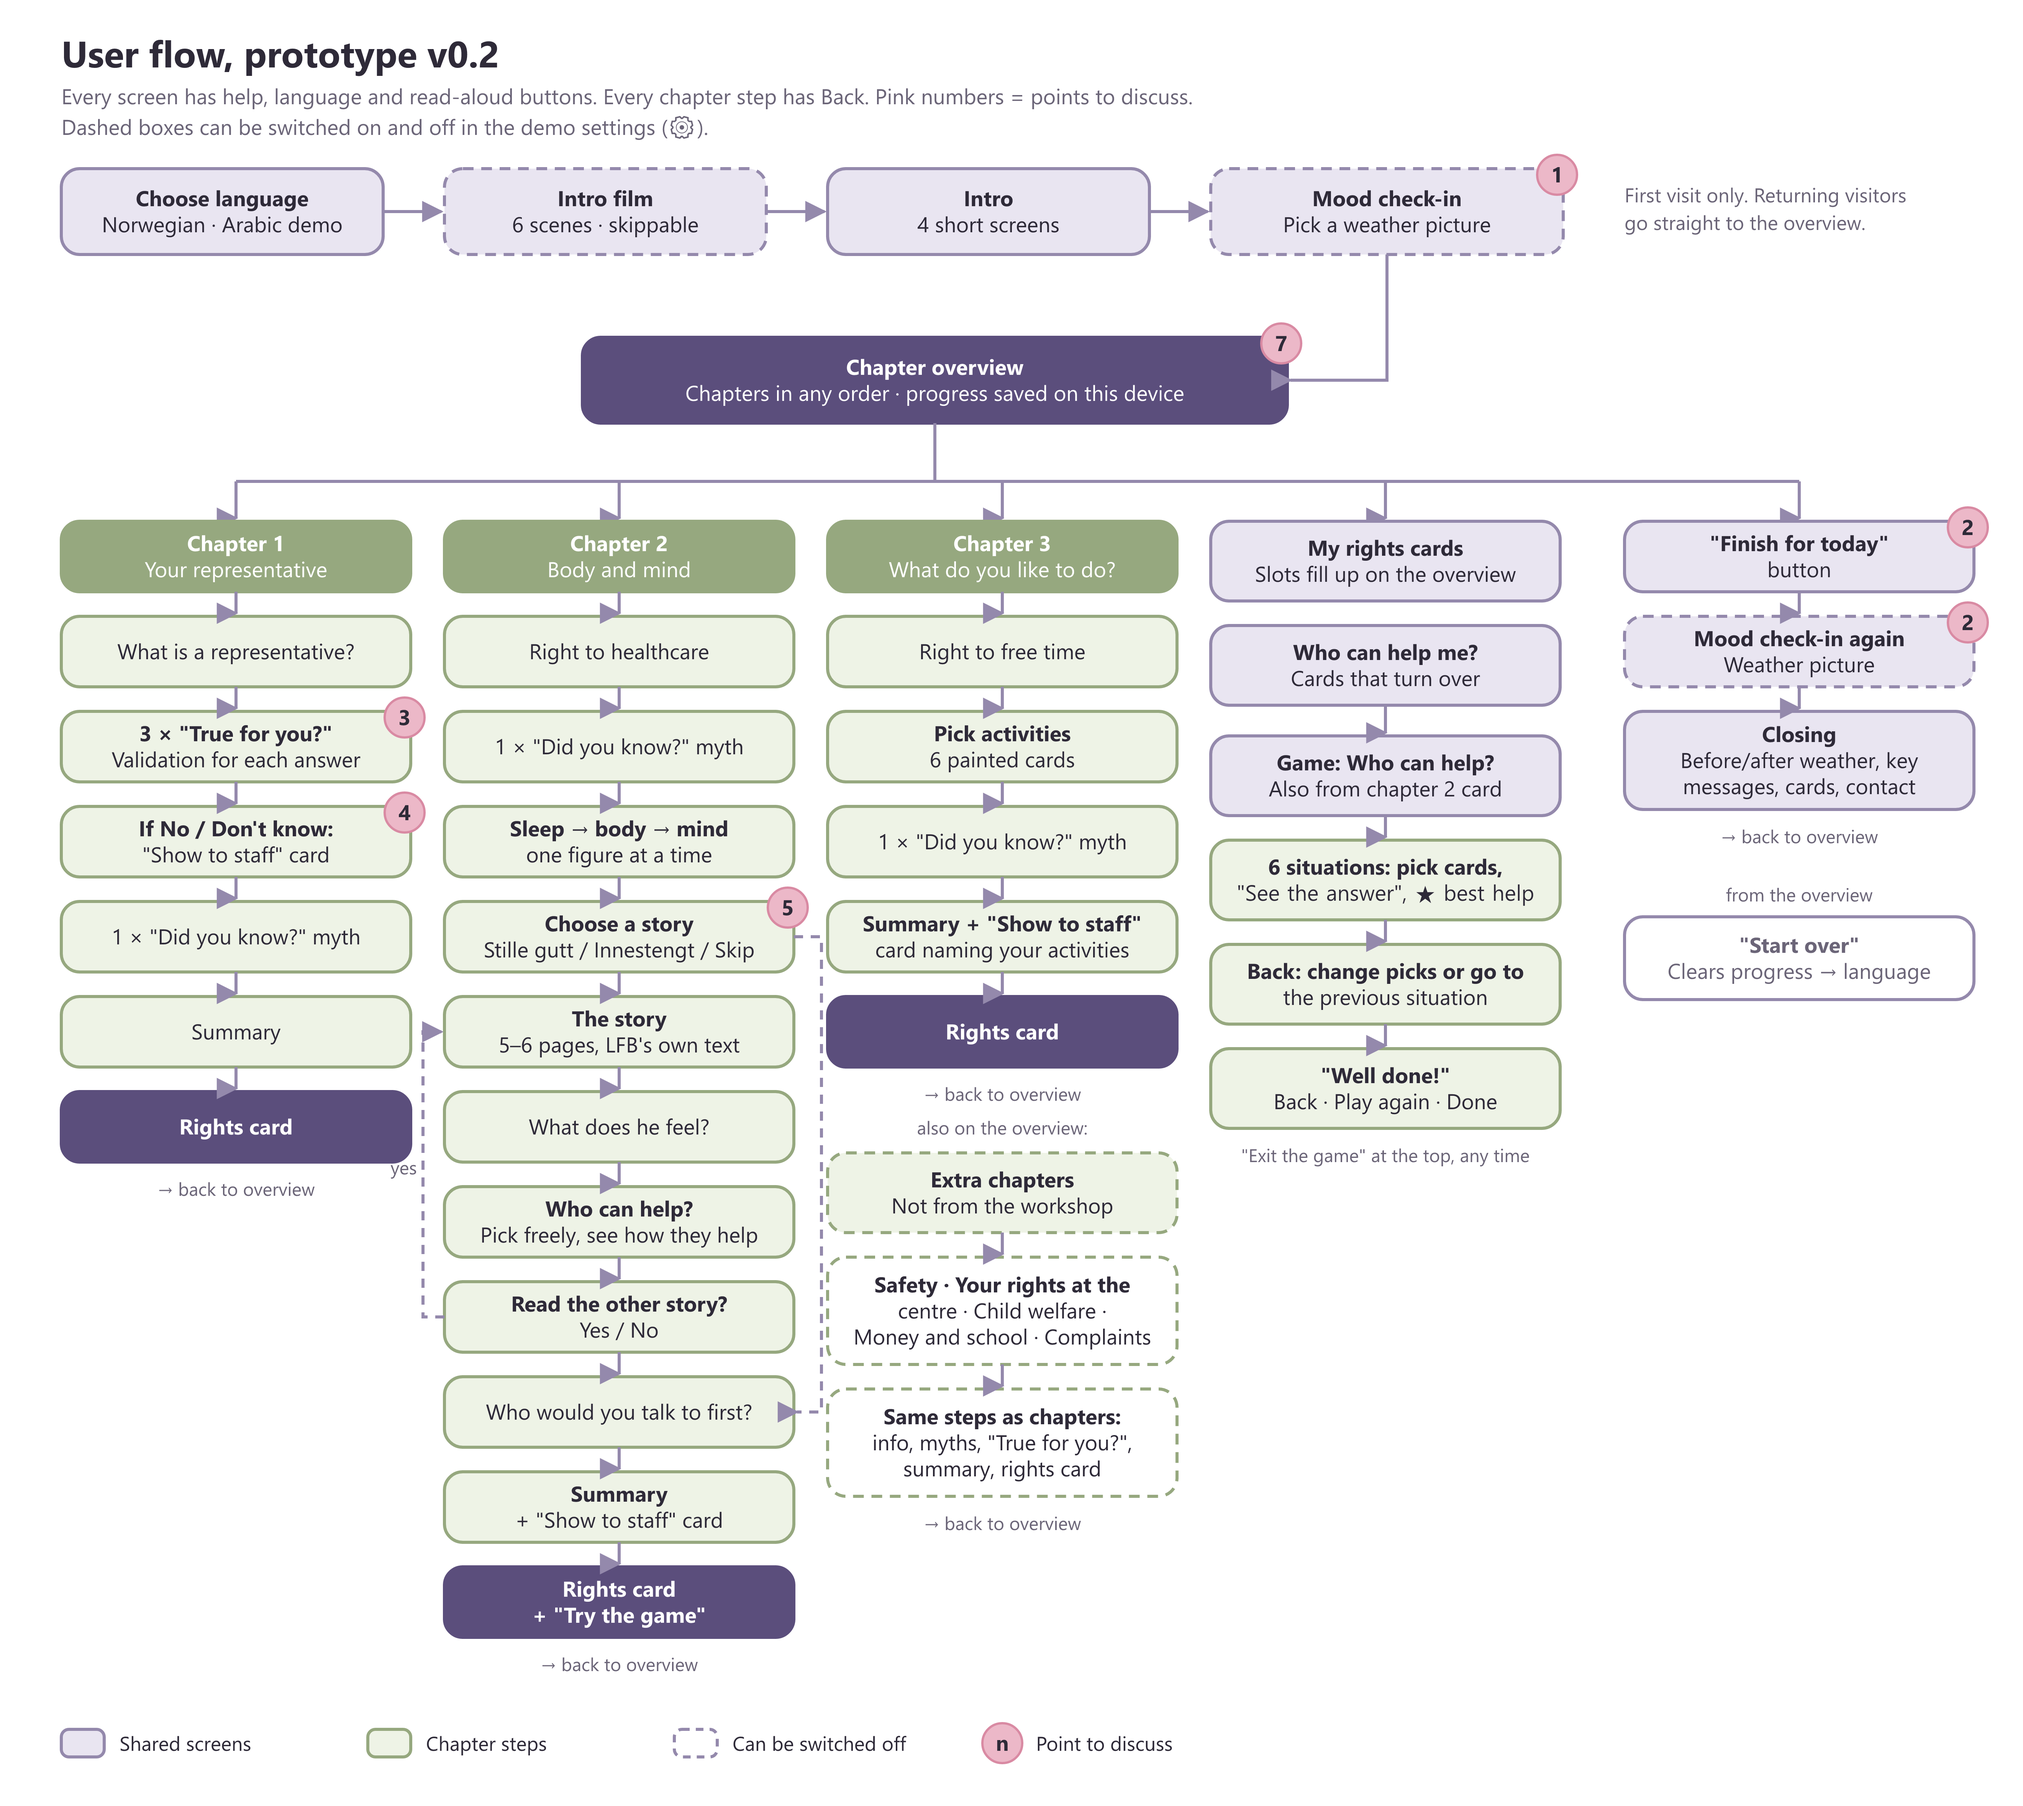
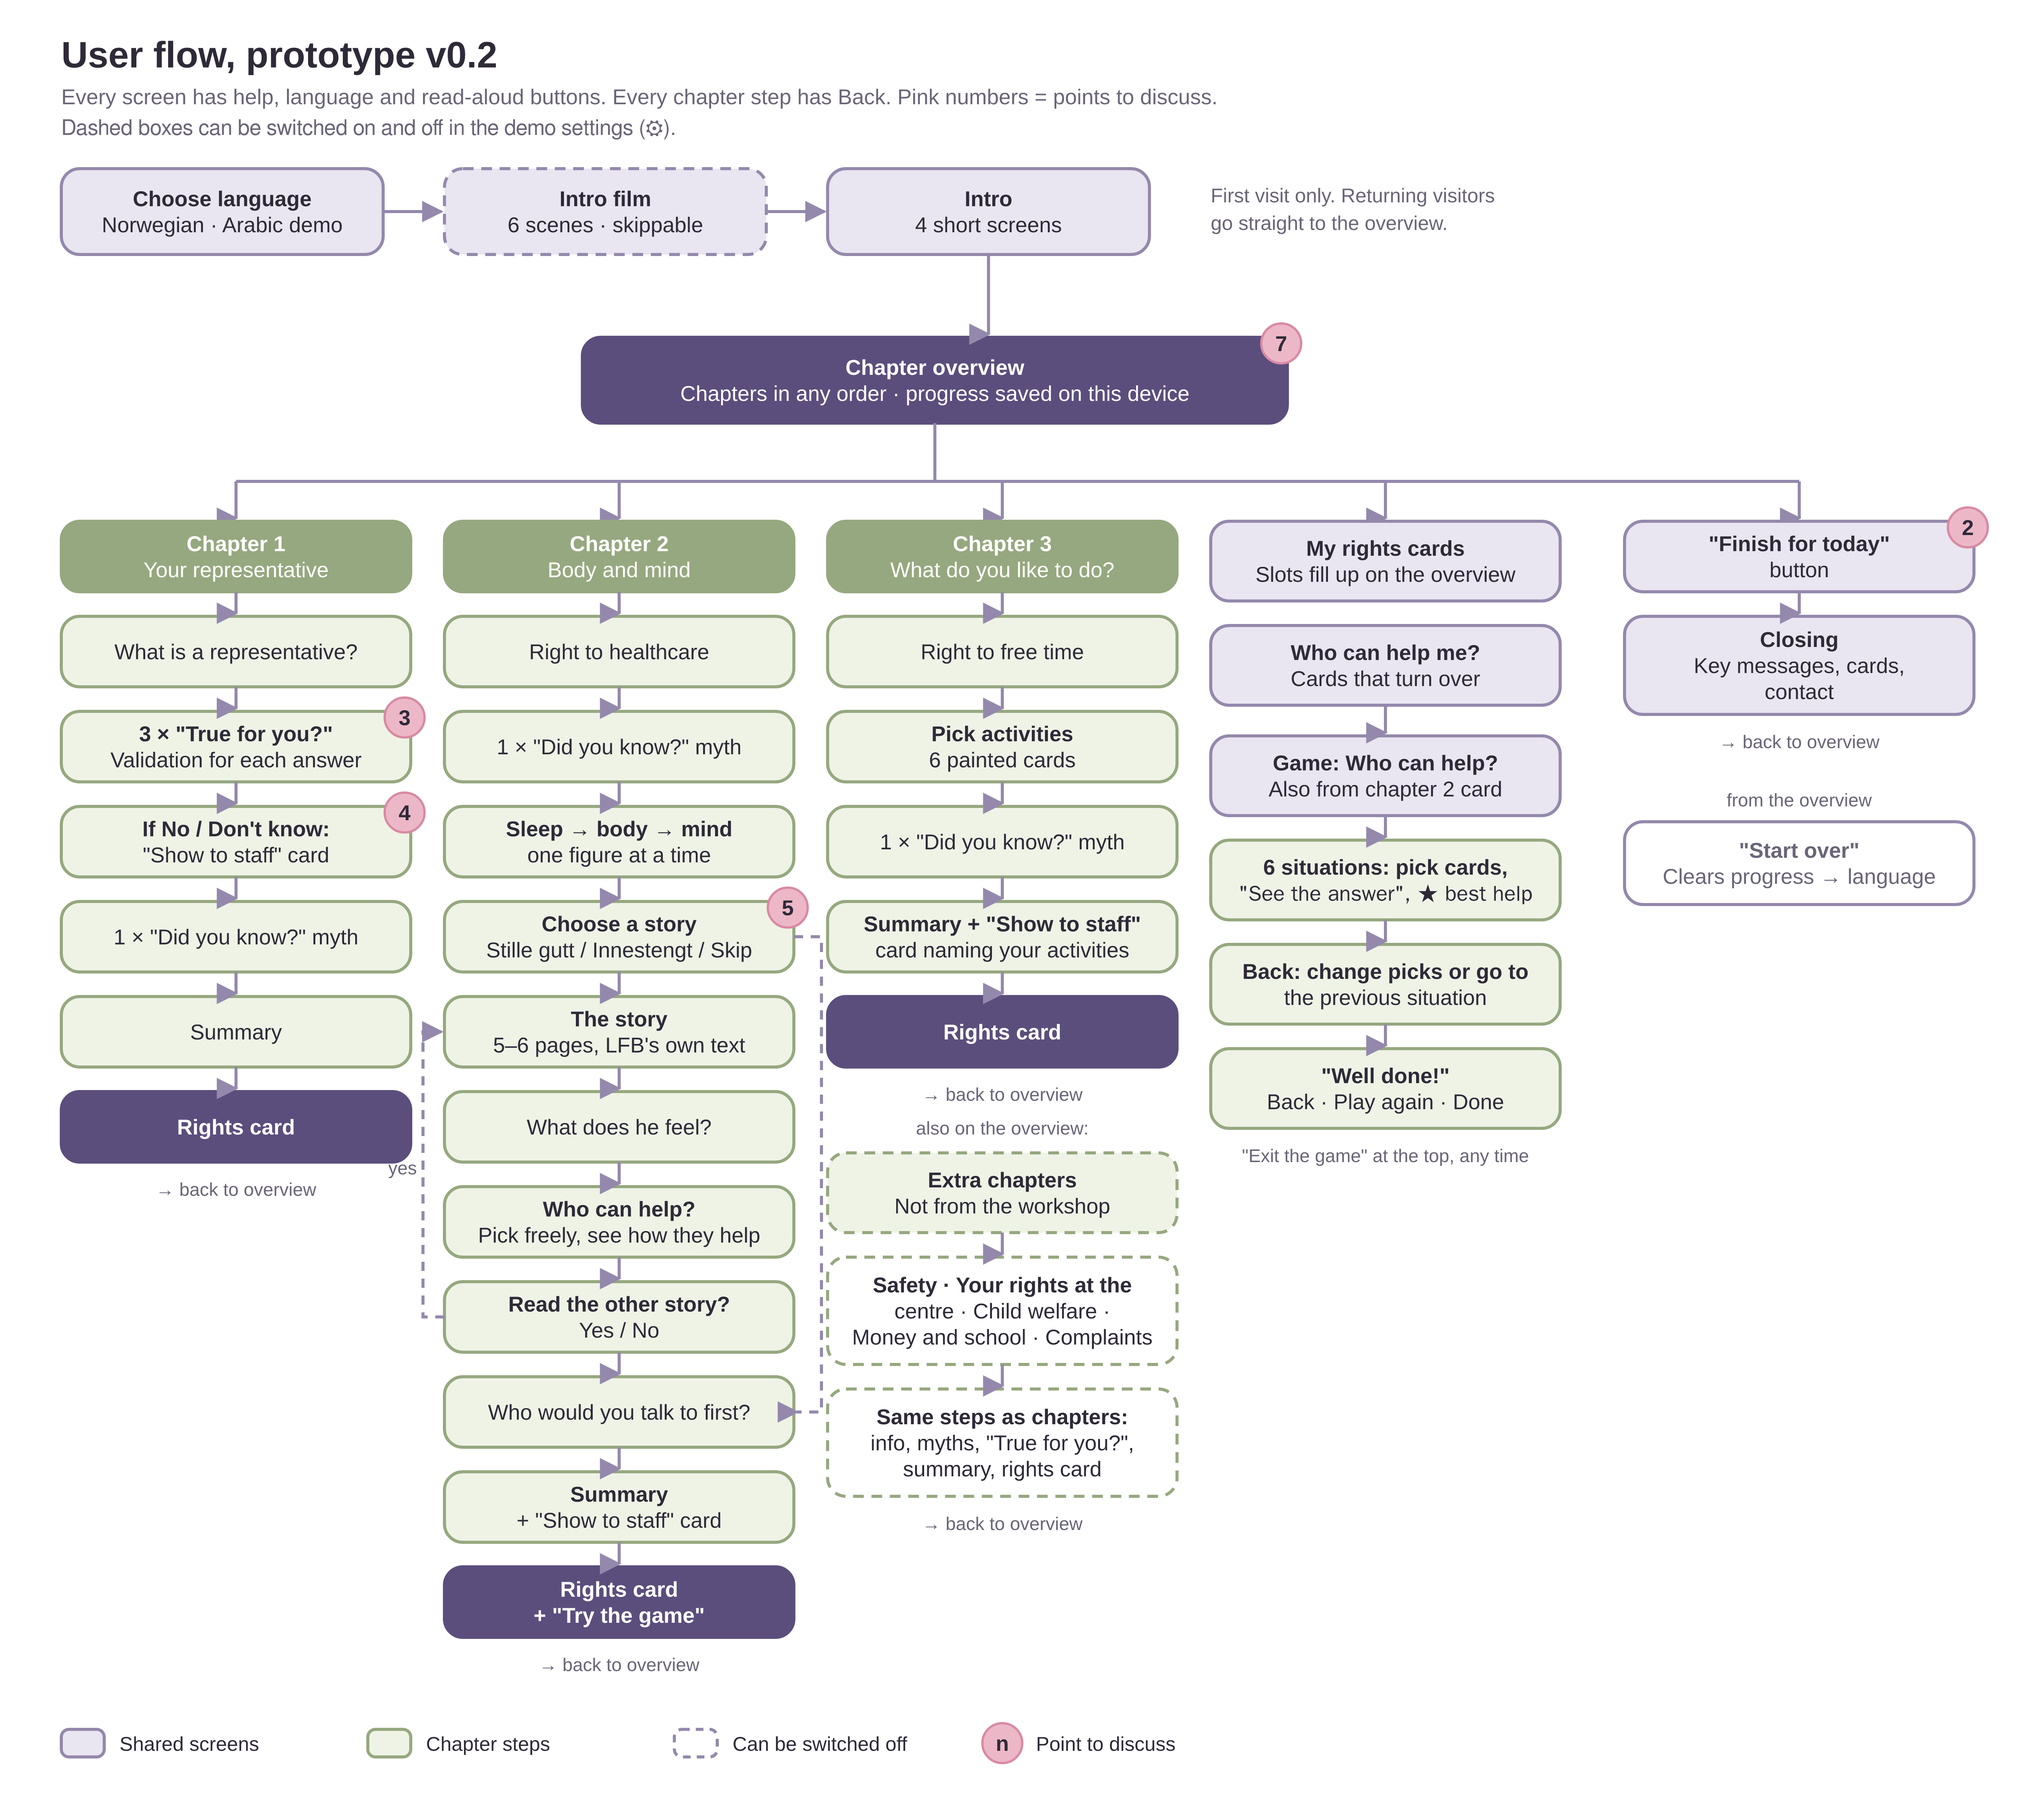
Remove the weather mood check; new topic order (v0.2.8)
The check-in and check-out screens, their feature switches, texts and the
before/after weather on the closing screen are gone. Topics now run from
the representative and the centre through everyday life and health to
safety, with complaints last.

Claude-Session: https://claude.ai/code/session_01N1UCGomGtG8efr6c5tPrno

diff --git a/src/App.jsx b/src/App.jsx
@@ -8,7 +8,6 @@ import HelpButton from './components/Help.jsx'
 import LanguageScreen from './screens/LanguageScreen.jsx'
 import Intro from './screens/Intro.jsx'
 import IntroFilm from './screens/IntroFilm.jsx'
-import CheckIn from './screens/CheckIn.jsx'
 import Hub from './screens/Hub.jsx'
 import Chapter from './screens/Chapter.jsx'
 import Cards from './screens/Cards.jsx'
@@ -97,18 +96,6 @@ function Screens({ demo }) {
         <Intro
           onDone={() => {
             update({ introDone: true })
-            go(on('checkin') ? 'checkin' : 'hub')
-          }}
-        />
-      )
-      break
-    case 'checkin':
-      content = (
-        <CheckIn
-          kind="checkin"
-          initial={progress.checkin}
-          onDone={(checkin) => {
-            update({ checkin })
             go('hub')
           }}
         />
@@ -129,18 +116,6 @@ function Screens({ demo }) {
     case 'game':
       content = <HelperGame onBack={() => go(gameFrom)} />
       break
-    case 'checkout':
-      content = (
-        <CheckIn
-          kind="checkout"
-          initial={null}
-          onDone={(checkout) => {
-            update({ checkout })
-            go('closing')
-          }}
-        />
-      )
-      break
     case 'closing':
       content = <Closing progress={progress} onBack={() => go('hub')} />
       break
@@ -154,7 +129,7 @@ function Screens({ demo }) {
           }}
           onCards={() => go('cards')}
           onHelpers={() => go('helpers')}
-          onFinish={() => go(on('checkout') ? 'checkout' : 'closing')}
+          onFinish={() => go('closing')}
           onRestart={() => {
             reset()
             go('lang')

diff --git a/src/content.js b/src/content.js
@@ -5,13 +5,6 @@ import { EXTRA_CARDS, EXTRA_CHAPTERS } from './content/extra.js'
 
 export const img = (file) => `${import.meta.env.BASE_URL}img/${file}`
 
-export const WEATHER = [
-  { id: 'clear', img: img('weather-clear.jpg'), label: 'weather.clear' },
-  { id: 'sunset', img: img('weather-sunset.jpg'), label: 'weather.sunset' },
-  { id: 'breaking', img: img('weather-breaking.jpg'), label: 'weather.breaking' },
-  { id: 'storm', img: img('weather-storm.jpg'), label: 'weather.storm' },
-]
-
 export const EMOTIONS = [
   { id: 'glad', img: img('emotion-glad.jpg') },
   { id: 'hopeful', img: img('emotion-hopeful.jpg') },
@@ -166,8 +159,13 @@ export const CHAPTERS = [
 
 // Chapters shown with the current feature switches: the workshop chapters plus
 // any extra chapters that are switched on.
+// Order of the topics in the overview: from who helps you and where you live,
+// through everyday life and health, to safety, and complaints last.
+const ORDER = ['ch1', 'x.centre', 'x.money', 'ch3', 'ch2', 'x.safety', 'x.cws', 'x.complain']
+const rank = (ch) => (ORDER.includes(ch.id) ? ORDER.indexOf(ch.id) : ORDER.length)
+
 export function chaptersFor(on) {
-  return [...CHAPTERS, ...EXTRA_CHAPTERS.filter((ch) => on(ch.id))]
+  return [...CHAPTERS, ...EXTRA_CHAPTERS.filter((ch) => on(ch.id))].sort((a, b) => rank(a) - rank(b))
 }
 
 export function findChapter(id) {

diff --git a/src/styles.css b/src/styles.css
@@ -174,19 +174,6 @@ button:focus-visible, a:focus-visible { outline: 3px solid var(--purple); outlin
 .dots .active { background: var(--purple); width: 22px; border-radius: 4px; }
 
 /* Weather */
-.weather-grid { display: grid; grid-template-columns: 1fr 1fr; gap: 12px; margin-top: 16px; }
-.weather-option {
-  padding: 0; border: 4px solid transparent; border-radius: var(--radius);
-  overflow: hidden; cursor: pointer; background: none; aspect-ratio: 4 / 3;
-}
-.weather-option img { width: 100%; height: 100%; object-fit: cover; animation: drift 16s ease-in-out infinite alternate; }
-.weather-option:nth-child(2) img { animation-delay: -4s; animation-duration: 19s; }
-.weather-option:nth-child(3) img { animation-delay: -9s; animation-duration: 17s; }
-.weather-option:nth-child(4) img { animation-delay: -2s; animation-duration: 21s; }
-.weather-option.selected { border-color: var(--purple); box-shadow: 0 0 0 3px var(--pink); }
-.weather-compare { display: flex; align-items: center; justify-content: center; gap: 12px; margin-bottom: 8px; }
-.weather-compare img { width: 40%; aspect-ratio: 4 / 3; object-fit: cover; border-radius: 12px; }
-.weather-compare span { font-size: 1.6rem; color: var(--lavender); }
 
 /* Hub: chapters as stations on a path */
 .path { list-style: none; padding: 0; margin: 20px 0 0; position: relative; display: grid; gap: 18px; }

diff --git a/src/screens/Closing.jsx b/src/screens/Closing.jsx
@@ -1,28 +1,13 @@
 import { useI18n } from '../i18n/I18n.jsx'
-import { RIGHTS_CARDS, WEATHER, img } from '../content.js'
+import { RIGHTS_CARDS, img } from '../content.js'
 import { CardList } from './Cards.jsx'
-import { useFeatures } from '../features.jsx'
 import { Speak } from '../components/Sound.jsx'
-
-const weather = (id) => WEATHER.find((w) => w.id === id)
 
 export default function Closing({ progress, onBack }) {
   const { t } = useI18n()
-  const { on } = useFeatures()
-  // Before/after weather only when both check-ins are switched on.
-  const both = on('checkin') && on('checkout')
-  const before = both && weather(progress.checkin)
-  const after = both && weather(progress.checkout)
 
   return (
     <section className="screen">
-      {before && after && (
-        <div className="weather-compare" aria-hidden="true">
-          <img src={before.img} alt="" />
-          <span className="dir-arrow">→</span>
-          <img src={after.img} alt="" />
-        </div>
-      )}
       <h1>
         {t('closing.title')} <Speak text={[t('closing.title'), ...[1, 2, 3, 4, 5, 6].map((n) => t(`closing.${n}`))].join('. ')} />
       </h1>

diff --git a/src/features.jsx b/src/features.jsx
@@ -10,8 +10,6 @@ import { createContext, useCallback, useContext, useMemo, useState } from 'react
 // import in content.js, these entries and the "x." strings.
 export const FEATURES = [
   { id: 'introFilm', group: 'flow', label: 'Introfilm (første besøk)', default: true },
-  { id: 'checkin', group: 'flow', label: 'Humørsjekk (vær) ved start', default: true },
-  { id: 'checkout', group: 'flow', label: 'Humørsjekk (vær) når man avslutter', default: true },
   { id: 'readAloud', group: 'flow', label: 'Opplesning (høyttalerknapp)', default: true },
   { id: 'x.safety', group: 'extra', label: 'Trygghet', default: true, extra: true },
   { id: 'x.centre', group: 'extra', label: 'Rettighetene dine på mottaket', default: true, extra: true },

diff --git a/src/changelog.js b/src/changelog.js
@@ -3,6 +3,14 @@
 // Add an entry and bump "version" in package.json for each demo you send.
 export const CHANGELOG = [
   {
+    version: '0.2.8',
+    date: '22.10.2026',
+    items: [
+      'Humørsjekken med værbilder er fjernet, både ved start og når du avslutter. Etter introen kommer du rett til oversikten, og avslutningen viser ikke lenger før- og etter-været.',
+      'Ny rekkefølge på temaene: Representanten din, Rettighetene dine på mottaket, Penger og skole, Hva liker du å gjøre?, Kropp og hode, Trygghet, Barnevernet, Hvordan klage.',
+    ],
+  },
+  {
     version: '0.2.7',
     date: '22.10.2026',
     items: [

diff --git a/src/progress.js b/src/progress.js
@@ -7,8 +7,6 @@ const KEY = 'lfb-progress-v1'
 const EMPTY = {
   lang: null,
   introDone: false,
-  checkin: null, // weather id
-  checkout: null,
   done: [], // finished chapter ids
   cards: [], // collected rights card ids
 }

diff --git a/docs/TODO.md b/docs/TODO.md
@@ -17,8 +17,8 @@ gangen. Kryss av og skriv versjonsnummer når noe er publisert.
       (`ch3.ask.title`, `ch3.ask.text` i arket, nå PLACEHOLDER).
 
 ### 2. Fjern humørsjekken (været)
-- [ ] Fjern værvalget ved start og ved avslutning, og alt som henger
-      sammen med det (avslutningsskjermen, værbildene i appen).
+- [x] Fjernet ved start og ved avslutning, med tekster og innstillinger
+      (v0.2.8). Introfilmen bruker fortsatt værbildene som bakgrunn.
 
 ### 3. Kropp og hode: «Hvem ville du snakket med først?»
 - [ ] Bedre introtekst, som sier at man kan trykke på kortet for å lese mer.
@@ -66,7 +66,9 @@ gangen. Kryss av og skriv versjonsnummer når noe er publisert.
       og 8 bruker listen). LFB sjekker tekstene i tekstarket som vanlig.
 
 ### 10. Rekkefølgen på temaene i oversikten
-- [ ] Venter på tilbakemelding fra Bente.
+- [x] Ny rekkefølge (v0.2.8): Representanten, Mottaket, Penger og skole,
+      Fritid, Kropp og hode, Trygghet, Barnevernet, Klage. Styres av
+      `ORDER` i src/content.js. Bente kan fortsatt komme med endringer.
 
 ## Fra tidligere økter
 - [ ] Oversikten over UDI, Bufdir og aktørene (lysark 8, «Hvem er vi i

diff --git a/README.md b/README.md
@@ -39,7 +39,7 @@ and re-run it.
 
 ## Privacy
 
-- Progress (language, finished chapters, rights cards, check-in weather) is
+- Progress (language, finished chapters, rights cards) is
   kept in the browser's localStorage only. "Start på nytt" clears it.
 - Answers are never stored or sent anywhere. LFB does not collect any data;
   answers only live in memory while a chapter is open.
